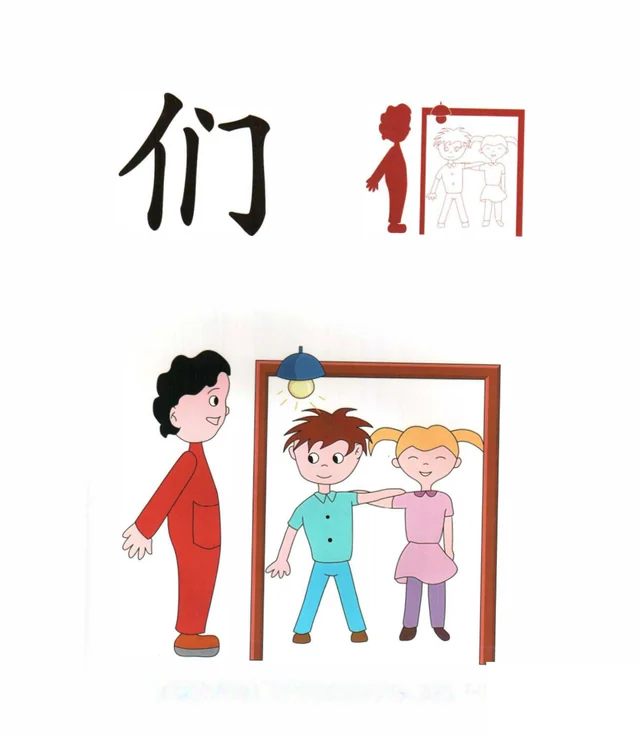
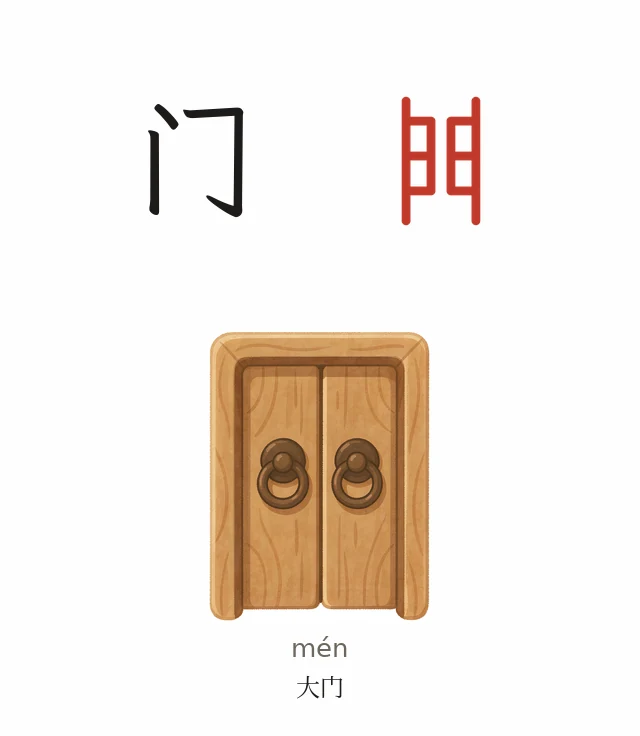
象形卡补齐：雨/鸟/鱼/田/小/门 按原卡版式合成，121 字全部为彩色卡
原因：这 6 个字在《象形识字卡大全》1400 张里没有整字（库内有雷雪露、
鸡鸭鹅、由申男、闪问闲等偏旁字，唯独缺这几个字本身），之前用甲骨文兜底，
和彩色卡风格割裂。

补卡方式（pipeline/cardfix.py）：
- 黑楷字：霞鹜文楷（OFL），按码点查 webfont 分片；固定字号，不按外框缩放
- 红古字：甲骨文 SVG 染 #C0392B，线宽 x1.65
- 彩色图：平台模型出单物体插画，四角色差去米底 + 过渡带羽化
- 版式取自原卡 shan.webp（640x736），逐项对齐到 0.01 精度

其他：
- data/pictographs.json：6 字改指 cards/*.webp，甲骨文兜底降为 0
- 大字卡里 svg 的米色圆底样式保留（作为兜底时的样式）
- picto_check 新增断言：这 6 个字必须是图片卡
- README：重写象形卡章节，修掉重复的「两本长故事」标题

回归：课程校验 / 报表一致 / UI 17 页 / 沙箱出声 / 象形卡 3 项 全绿

Changed region(s): [[0.1875, 0.4375, 0.7812, 0.9688], [0.5625, 0.125, 0.8438, 0.3125], [0.1875, 0.125, 0.4375, 0.3438]]

diff --git a/app/data.js b/app/data.js
@@ -1264,8 +1264,8 @@ window.SHIZI = {
       "wordAudio": "assets/audio/a78cd8c96408.mp3",
       "status": "teaching",
       "pictograph": {
-        "kind": "svg",
-        "src": "<svg xmlns=\"http://www.w3.org/2000/svg\" viewBox=\"0 0 100 100\" role=\"img\" aria-hidden=\"true\"><g transform=\"translate(21.59,8.00) scale(2.4706)\"><path d=\"M 12 4 L 12 30\" fill=\"none\" stroke=\"#3B352C\" stroke-width=\"1.133\" stroke-linecap=\"round\" stroke-linejoin=\"round\"/><path d=\"M 6 14 L 4 28\" fill=\"none\" stroke=\"#3B352C\" stroke-width=\"1.133\" stroke-linecap=\"round\" stroke-linejoin=\"round\"/><path d=\"M 18 12 L 19 28\" fill=\"none\" stroke=\"#3B352C\" stroke-width=\"1.133\" stroke-linecap=\"round\" stroke-linejoin=\"round\"/></g></svg>"
+        "kind": "img",
+        "src": "assets/cards/xiao.webp"
       }
     },
     "上": {
@@ -1421,8 +1421,8 @@ window.SHIZI = {
       "wordAudio": "assets/audio/ce67bb6fa740.mp3",
       "status": "planned",
       "pictograph": {
-        "kind": "svg",
-        "src": "<svg xmlns=\"http://www.w3.org/2000/svg\" viewBox=\"0 0 100 100\" role=\"img\" aria-hidden=\"true\"><g transform=\"translate(20.60,8.00) scale(2.8000)\"><path d=\"M 4 4 L 4 26\" fill=\"none\" stroke=\"#3B352C\" stroke-width=\"1.000\" stroke-linecap=\"round\" stroke-linejoin=\"round\"/><path d=\"M 4 4 L 17 5\" fill=\"none\" stroke=\"#3B352C\" stroke-width=\"1.000\" stroke-linecap=\"round\" stroke-linejoin=\"round\"/><path d=\"M 17 5 L 17 26\" fill=\"none\" stroke=\"#3B352C\" stroke-width=\"1.000\" stroke-linecap=\"round\" stroke-linejoin=\"round\"/><path d=\"M 4 26 L 17 26\" fill=\"none\" stroke=\"#3B352C\" stroke-width=\"1.000\" stroke-linecap=\"round\" stroke-linejoin=\"round\"/><path d=\"M 4 11 L 17 11\" fill=\"none\" stroke=\"#3B352C\" stroke-width=\"1.000\" stroke-linecap=\"round\" stroke-linejoin=\"round\"/><path d=\"M 4 18 L 17 19\" fill=\"none\" stroke=\"#3B352C\" stroke-width=\"1.000\" stroke-linecap=\"round\" stroke-linejoin=\"round\"/><path d=\"M 7 5 L 7 26\" fill=\"none\" stroke=\"#3B352C\" stroke-width=\"1.000\" stroke-linecap=\"round\" stroke-linejoin=\"round\"/><path d=\"M 12 5 L 12 26\" fill=\"none\" stroke=\"#3B352C\" stroke-width=\"1.000\" stroke-linecap=\"round\" stroke-linejoin=\"round\"/></g></svg>"
+        "kind": "img",
+        "src": "assets/cards/tian.webp"
       }
     },
     "里": {
@@ -2075,8 +2075,8 @@ window.SHIZI = {
       "wordAudio": "assets/audio/547f69624ece.mp3",
       "status": "planned",
       "pictograph": {
-        "kind": "svg",
-        "src": "<svg xmlns=\"http://www.w3.org/2000/svg\" viewBox=\"0 0 100 100\" role=\"img\" aria-hidden=\"true\"><g transform=\"translate(20.92,8.00) scale(2.1538)\"><path d=\"M 10 4 L 10 7\" fill=\"none\" stroke=\"#3B352C\" stroke-width=\"1.300\" stroke-linecap=\"round\" stroke-linejoin=\"round\"/><path d=\"M 10 6 L 16 12\" fill=\"none\" stroke=\"#3B352C\" stroke-width=\"1.300\" stroke-linecap=\"round\" stroke-linejoin=\"round\"/><path d=\"M 15 9 L 18 7 L 18 8 L 12 16\" fill=\"none\" stroke=\"#3B352C\" stroke-width=\"1.300\" stroke-linecap=\"round\" stroke-linejoin=\"round\"/><path d=\"M 11 14 L 11 19\" fill=\"none\" stroke=\"#3B352C\" stroke-width=\"1.300\" stroke-linecap=\"round\" stroke-linejoin=\"round\"/><path d=\"M 14 13 L 15 18 L 11 22 L 8 24 L 8 28 L 9 33 L 10 35\" fill=\"none\" stroke=\"#3B352C\" stroke-width=\"1.300\" stroke-linecap=\"round\" stroke-linejoin=\"round\"/><path d=\"M 15 18 L 19 24 L 18 27 L 17 31 L 20 35\" fill=\"none\" stroke=\"#3B352C\" stroke-width=\"1.300\" stroke-linecap=\"round\" stroke-linejoin=\"round\"/><path d=\"M 9 23 L 18 23\" fill=\"none\" stroke=\"#3B352C\" stroke-width=\"1.300\" stroke-linecap=\"round\" stroke-linejoin=\"round\"/><path d=\"M 9 27 L 19 27\" fill=\"none\" stroke=\"#3B352C\" stroke-width=\"1.300\" stroke-linecap=\"round\" stroke-linejoin=\"round\"/><path d=\"M 8 30 L 17 30\" fill=\"none\" stroke=\"#3B352C\" stroke-width=\"1.300\" stroke-linecap=\"round\" stroke-linejoin=\"round\"/><path d=\"M 14 22 L 13 31 L 11 35\" fill=\"none\" stroke=\"#3B352C\" stroke-width=\"1.300\" stroke-linecap=\"round\" stroke-linejoin=\"round\"/><path d=\"M 14 31 L 16 33 L 18 35\" fill=\"none\" stroke=\"#3B352C\" stroke-width=\"1.300\" stroke-linecap=\"round\" stroke-linejoin=\"round\"/><path d=\"M 8 25 L 5 27 L 4 33\" fill=\"none\" stroke=\"#3B352C\" stroke-width=\"1.300\" stroke-linecap=\"round\" stroke-linejoin=\"round\"/><path d=\"M 5 31 L 8 29\" fill=\"none\" stroke=\"#3B352C\" stroke-width=\"1.300\" stroke-linecap=\"round\" stroke-linejoin=\"round\"/><path d=\"M 19 25 L 22 27\" fill=\"none\" stroke=\"#3B352C\" stroke-width=\"1.300\" stroke-linecap=\"round\" stroke-linejoin=\"round\"/><path d=\"M 23 26 L 22 31\" fill=\"none\" stroke=\"#3B352C\" stroke-width=\"1.300\" stroke-linecap=\"round\" stroke-linejoin=\"round\"/><path d=\"M 17 29 L 22 31\" fill=\"none\" stroke=\"#3B352C\" stroke-width=\"1.300\" stroke-linecap=\"round\" stroke-linejoin=\"round\"/></g></svg>"
+        "kind": "img",
+        "src": "assets/cards/yu2.webp"
       }
     },
     "游": {
@@ -2148,8 +2148,8 @@ window.SHIZI = {
       "wordAudio": "assets/audio/107b8eb94827.mp3",
       "status": "planned",
       "pictograph": {
-        "kind": "svg",
-        "src": "<svg xmlns=\"http://www.w3.org/2000/svg\" viewBox=\"0 0 100 100\" role=\"img\" aria-hidden=\"true\"><g transform=\"translate(21.12,8.00) scale(2.6250)\"><path d=\"M 4 4 L 4 28\" fill=\"none\" stroke=\"#3B352C\" stroke-width=\"1.067\" stroke-linecap=\"round\" stroke-linejoin=\"round\"/><path d=\"M 4 28 L 4 28\" fill=\"none\" stroke=\"#3B352C\" stroke-width=\"1.067\" stroke-linecap=\"round\" stroke-linejoin=\"round\"/><path d=\"M 9 8 L 9 22\" fill=\"none\" stroke=\"#3B352C\" stroke-width=\"1.067\" stroke-linecap=\"round\" stroke-linejoin=\"round\"/><path d=\"M 13 8 L 13 22\" fill=\"none\" stroke=\"#3B352C\" stroke-width=\"1.067\" stroke-linecap=\"round\" stroke-linejoin=\"round\"/><path d=\"M 18 4 L 18 28\" fill=\"none\" stroke=\"#3B352C\" stroke-width=\"1.067\" stroke-linecap=\"round\" stroke-linejoin=\"round\"/><path d=\"M 4 8 L 9 8\" fill=\"none\" stroke=\"#3B352C\" stroke-width=\"1.067\" stroke-linecap=\"round\" stroke-linejoin=\"round\"/><path d=\"M 4 15 L 9 15\" fill=\"none\" stroke=\"#3B352C\" stroke-width=\"1.067\" stroke-linecap=\"round\" stroke-linejoin=\"round\"/><path d=\"M 4 22 L 9 22\" fill=\"none\" stroke=\"#3B352C\" stroke-width=\"1.067\" stroke-linecap=\"round\" stroke-linejoin=\"round\"/><path d=\"M 13 8 L 18 8\" fill=\"none\" stroke=\"#3B352C\" stroke-width=\"1.067\" stroke-linecap=\"round\" stroke-linejoin=\"round\"/><path d=\"M 13 15 L 18 15\" fill=\"none\" stroke=\"#3B352C\" stroke-width=\"1.067\" stroke-linecap=\"round\" stroke-linejoin=\"round\"/><path d=\"M 13 22 L 18 22\" fill=\"none\" stroke=\"#3B352C\" stroke-width=\"1.067\" stroke-linecap=\"round\" stroke-linejoin=\"round\"/></g></svg>"
+        "kind": "img",
+        "src": "assets/cards/men.webp"
       }
     },
     "跳": {
@@ -2530,8 +2530,8 @@ window.SHIZI = {
       "wordAudio": "assets/audio/731764cb06a9.mp3",
       "status": "planned",
       "pictograph": {
-        "kind": "svg",
-        "src": "<svg xmlns=\"http://www.w3.org/2000/svg\" viewBox=\"0 0 100 100\" role=\"img\" aria-hidden=\"true\"><g transform=\"translate(24.33,8.00) scale(2.3333)\"><path d=\"M 10 5 L 10 8 L 12 9 L 13 7 L 13 5 L 10 5\" fill=\"none\" stroke=\"#3B352C\" stroke-width=\"1.200\" stroke-linecap=\"round\" stroke-linejoin=\"round\"/><path d=\"M 10 4 L 6 5 L 5 8\" fill=\"none\" stroke=\"#3B352C\" stroke-width=\"1.200\" stroke-linecap=\"round\" stroke-linejoin=\"round\"/><path d=\"M 6 5 L 10 8\" fill=\"none\" stroke=\"#3B352C\" stroke-width=\"1.200\" stroke-linecap=\"round\" stroke-linejoin=\"round\"/><path d=\"M 13 7 L 13 14 L 18 20 L 18 25\" fill=\"none\" stroke=\"#3B352C\" stroke-width=\"1.200\" stroke-linecap=\"round\" stroke-linejoin=\"round\"/><path d=\"M 11 8 L 7 18 L 11 23 L 11 28\" fill=\"none\" stroke=\"#3B352C\" stroke-width=\"1.200\" stroke-linecap=\"round\" stroke-linejoin=\"round\"/><path d=\"M 10 13 L 11 15 L 10 17\" fill=\"none\" stroke=\"#3B352C\" stroke-width=\"1.200\" stroke-linecap=\"round\" stroke-linejoin=\"round\"/><path d=\"M 14 17 L 11 22\" fill=\"none\" stroke=\"#3B352C\" stroke-width=\"1.200\" stroke-linecap=\"round\" stroke-linejoin=\"round\"/><path d=\"M 13 19 L 14 26\" fill=\"none\" stroke=\"#3B352C\" stroke-width=\"1.200\" stroke-linecap=\"round\" stroke-linejoin=\"round\"/><path d=\"M 7 18 L 6 21 L 9 26\" fill=\"none\" stroke=\"#3B352C\" stroke-width=\"1.200\" stroke-linecap=\"round\" stroke-linejoin=\"round\"/><path d=\"M 7 23 L 4 27 L 5 32\" fill=\"none\" stroke=\"#3B352C\" stroke-width=\"1.200\" stroke-linecap=\"round\" stroke-linejoin=\"round\"/><path d=\"M 6 26 L 7 28\" fill=\"none\" stroke=\"#3B352C\" stroke-width=\"1.200\" stroke-linecap=\"round\" stroke-linejoin=\"round\"/></g></svg>"
+        "kind": "img",
+        "src": "assets/cards/niao.webp"
       }
     },
     "夜": {
@@ -2559,8 +2559,8 @@ window.SHIZI = {
       "wordAudio": "assets/audio/6dfe7066f782.mp3",
       "status": "planned",
       "pictograph": {
-        "kind": "svg",
-        "src": "<svg xmlns=\"http://www.w3.org/2000/svg\" viewBox=\"0 0 100 100\" role=\"img\" aria-hidden=\"true\"><g transform=\"translate(24.55,8.00) scale(2.5455)\"><path d=\"M 7 4 L 14 4\" fill=\"none\" stroke=\"#3B352C\" stroke-width=\"1.100\" stroke-linecap=\"round\" stroke-linejoin=\"round\"/><path d=\"M 5 15 L 7 6 L 14 6 L 16 14\" fill=\"none\" stroke=\"#3B352C\" stroke-width=\"1.100\" stroke-linecap=\"round\" stroke-linejoin=\"round\"/><path d=\"M 11 6 L 11 18\" fill=\"none\" stroke=\"#3B352C\" stroke-width=\"1.100\" stroke-linecap=\"round\" stroke-linejoin=\"round\"/><path d=\"M 8 14 L 4 25\" fill=\"none\" stroke=\"#3B352C\" stroke-width=\"1.100\" stroke-linecap=\"round\" stroke-linejoin=\"round\"/><path d=\"M 13 13 L 16 24\" fill=\"none\" stroke=\"#3B352C\" stroke-width=\"1.100\" stroke-linecap=\"round\" stroke-linejoin=\"round\"/><path d=\"M 11 22 L 11 29\" fill=\"none\" stroke=\"#3B352C\" stroke-width=\"1.100\" stroke-linecap=\"round\" stroke-linejoin=\"round\"/></g></svg>"
+        "kind": "img",
+        "src": "assets/cards/yu.webp"
       }
     },
     "声": {

diff --git a/app/app.css b/app/app.css
@@ -298,7 +298,12 @@ table.stat td{padding:6px 3px;border-bottom:1px solid #F3EAD8;text-align:right;c
   display:flex;align-items:center;justify-content:center;
   animation:picIn .28s cubic-bezier(.2,.8,.2,1) both;
 }
-.b-pic svg{display:block;width:min(42vw,210px);height:min(42vw,210px)}
+.b-pic svg{
+  display:block;width:min(42vw,210px);height:min(42vw,210px);
+  /* 甲骨文兜底：加米色圆底，视觉上靠近卡片，避免黑白线条突兀 */
+  background:#FBF6EC;border-radius:16px;padding:9px;box-sizing:border-box;
+  box-shadow:inset 0 0 0 1px rgba(160,140,110,.16);
+}
 .b-pic img{display:block;width:min(48vw,236px);height:auto;border-radius:14px}
 @keyframes picIn{from{opacity:0;transform:scale(.94)}to{opacity:1;transform:none}}
 .b-hint{font-size:12px;color:#B0A48E;margin-top:12px;letter-spacing:.04em}

diff --git a/pipeline/cardfix.py b/pipeline/cardfix.py
@@ -1,0 +1,205 @@
+"""给识字卡库里缺的字补卡：黑楷字 + 红古文字 + 彩色象形 + 拼音配词。
+
+背景：用户提供的《象形识字卡大全》PDF 共 1400 张，覆盖 115 个字表字，
+但雨、鸟、鱼、田、小、门这 6 个整字不在其中（库里有雷/雪、鸡/鸭、男/界这类
+带相应偏旁的字，唯独没有这几个字本身）。用甲骨文兜底会和彩色卡风格割裂，
+所以按原卡的版式补画。
+
+用法：
+    python3 pipeline/cardfix.py            # 合成
+    python3 pipeline/cardfix.py --preview  # 只出一张总览图
+
+版式取自原卡（app/assets/cards/shan.webp，640x736）：
+    黑楷字   x 0.21-0.41  y 0.13-0.30
+    红古字   x 0.57-0.81  y 0.15-0.31
+    彩色图   中心 (0.50, 0.62)  最大 310px
+    拼音/词  居中 y 0.86 / 0.91
+"""
+from __future__ import annotations
+
+import sys
+from pathlib import Path
+
+import numpy as np
+from PIL import Image, ImageDraw, ImageFont
+
+ROOT = Path(__file__).resolve().parent.parent
+CARDS = ROOT / "app" / "assets" / "cards"
+KAI_DIR = Path("/tmp/wenkai/package/files")
+SLUG_KAI = "lxgwwenkai-regular-subset-*.woff2"
+
+
+def kai_for(char: str) -> Path:
+    """霞鹜文楷是 webfont 分片，每个分片只含一部分字，按码点找含该字的分片。"""
+    from fontTools.ttLib import TTFont
+    cp = ord(char)
+    cache = kai_for.cache
+    if cp in cache:
+        return cache[cp]
+    for f in sorted(KAI_DIR.glob(SLUG_KAI)):
+        try:
+            t = TTFont(f, lazy=True)
+            cmap = t.getBestCmap()
+            t.close()
+        except Exception:
+            continue
+        if cp in cmap:
+            cache[cp] = f
+            return f
+    raise SystemExit(f"楷体分片里找不到「{char}」（需要先下载 lxgw-wenkai-webfont）")
+
+
+kai_for.cache = {}
+LATIN = "/usr/share/fonts/truetype/dejavu/DejaVuSans.ttf"
+CJK = "/usr/share/fonts/opentype/noto/NotoSerifCJK-Regular.ttc"
+
+W, H = 640, 736
+PAPER = (254, 254, 254)
+INK = (30, 28, 26)
+GREY = (110, 102, 92)
+
+# 字 → (拼音, 配词, 彩图文件名关键词)
+ITEMS = {
+    "小": ("xiǎo", "小兔", "00-25-35"),
+    "雨": ("yǔ", "下雨", "00-25-57"),
+    "门": ("mén", "大门", "00-27-13"),
+    "田": ("tián", "田地", "00-27-26"),
+    "鸟": ("niǎo", "小鸟", "00-28-37"),
+    "鱼": ("yú", "小鱼", "00-28-54"),
+}
+
+SLUG = {"小": "xiao", "雨": "yu", "门": "men", "田": "tian", "鸟": "niao", "鱼": "yu2"}
+
+
+def trim(im: Image.Image, pad: int = 0) -> Image.Image:
+    """按不透明/非白像素裁掉空白。"""
+    a = np.asarray(im.convert("RGBA"))
+    if im.mode == "RGBA":
+        mask = a[:, :, 3] > 12
+    else:
+        rgb = a[:, :, :3].astype(int)
+        mask = rgb.min(axis=2) < 235
+    ys, xs = np.where(mask)
+    if len(xs) == 0:
+        return im
+    x0, x1 = max(0, xs.min()-pad), min(im.width, xs.max()+1+pad)
+    y0, y1 = max(0, ys.min()-pad), min(im.height, ys.max()+1+pad)
+    return im.crop((x0, y0, x1, y1))
+
+
+def fit_into(im: Image.Image, box_w: int, box_h: int) -> Image.Image:
+    """等比缩放，塞进 box，保持比例。"""
+    s = min(box_w / im.width, box_h / im.height)
+    return im.resize((max(1, int(im.width * s)), max(1, int(im.height * s))), Image.LANCZOS)
+
+
+def glyph(char: str, size: int = 190, fs: int = 130) -> Image.Image:
+    """黑楷字：固定字号，只在画布内居中。
+
+    原卡每个字的字号一致，笔画少的字（小）自然就小，
+    按外框缩放会把「小」拉得和「田」一样大，反而失真。
+    """
+    font = ImageFont.truetype(str(kai_for(char)), fs)
+    im = Image.new("RGBA", (size, size), (0, 0, 0, 0))
+    d = ImageDraw.Draw(im)
+    bb = d.textbbox((0, 0), char, font=font)
+    d.text(((size - (bb[2]-bb[0]))/2 - bb[0], (size - (bb[3]-bb[1]))/2 - bb[1]),
+           char, font=font, fill=INK + (255,))
+    return im
+
+
+def find_color(char: str) -> Path:
+    key = ITEMS[char][2]
+    hits = [p for p in (ROOT / "art" / "cards-fix").glob("*.png") if key in p.name]
+    if not hits:
+        raise SystemExit(f"找不到「{char}」的彩图（关键词 {key}）")
+    return hits[0]
+
+
+# AI 图底色是 #FBF6EC，卡片是纯白；直接贴会看到一块方形色差。
+# 按通道白平衡把底色拉到纯白，物体颜色只轻微偏移。
+PAPER_AI = (251, 246, 236)
+
+
+def whiten(im: Image.Image) -> Image.Image:
+    """把 AI 图的米色底换成纯白。
+
+    四角采样当底色（不同图的底色深浅不一），按色差替换，边缘做一次羽化，
+    否则贴在白卡上会看到一个方形轮廓。
+    """
+    a = np.asarray(im).astype(np.float32)
+    corners = np.stack([a[2, 2], a[2, -3], a[-3, 2], a[-3, -3]])
+    bg = np.median(corners, axis=0)
+    dist = np.abs(a - bg).max(axis=2)
+    a[dist < 14] = 255
+    # 过渡带：把 14-26 的色差按比例推向白色
+    band = (dist >= 14) & (dist < 26)
+    k = ((dist - 14) / 12.0)[..., None]
+    a[band] = 255 - (255 - a[band]) * k[band]
+    return Image.fromarray(np.clip(a, 0, 255).astype(np.uint8))
+
+
+def color_pic(char: str) -> Image.Image:
+    im = Image.open(find_color(char)).convert("RGB")
+    # 裁掉四周 6%（含右下角水印）
+    bx = int(im.width * 0.06)
+    im = im.crop((bx, bx, im.width - bx, im.height - bx))
+    im = whiten(im)
+    return trim(im, pad=4)
+
+
+def compose(char: str) -> Image.Image:
+    pinyin, word, _ = ITEMS[char]
+    canvas = Image.new("RGB", (W, H), PAPER)
+
+    # 黑楷字：左上
+    g = glyph(char)
+    canvas.paste(g, (102, 66), g)
+
+    # 红古字：右上，按统一画布缩放（字形本身已在 100x100 内归一化）
+    red = Image.open(f"/tmp/red/{SLUG[char]}.png").convert("RGBA")
+    red = red.resize((190, 190), Image.LANCZOS)
+    canvas.paste(red, (346, 66), red)
+
+    # 彩色象形：中下
+    pic = fit_into(color_pic(char), 292, 292)
+    canvas.paste(pic, ((W - pic.width)//2, 330 + (292 - pic.height)//2))
+
+    # 拼音 + 配词
+    d = ImageDraw.Draw(canvas)
+    try:
+        # 外层大字卡也会显示拼音和配词，卡内这份要小一点，避免重复得太抢眼
+        f1 = ImageFont.truetype(LATIN, 26)
+        f2 = ImageFont.truetype(CJK, 24) if Path(CJK).exists() else f1
+    except Exception:
+        f1 = f2 = ImageFont.load_default()
+    tw = d.textlength(pinyin, font=f1)
+    d.text(((W - tw)/2, 632), pinyin, font=f1, fill=GREY)
+    tw = d.textlength(word, font=f2)
+    d.text(((W - tw)/2, 668), word, font=f2, fill=INK)
+    return canvas
+
+
+def main() -> None:
+    CARDS.mkdir(parents=True, exist_ok=True)
+    made = []
+    for char in ITEMS:
+        im = compose(char)
+        p = CARDS / f"{SLUG[char]}.webp"
+        im.save(p, "WEBP", quality=88, method=6)
+        made.append((char, p))
+        print(f"  ✓ {char} → {p.relative_to(ROOT)} ({p.stat().st_size//1024} KB)")
+
+    if "--preview" in sys.argv:
+        cols = 3
+        rows = (len(made) + cols - 1) // cols
+        sheet = Image.new("RGB", (cols*W, rows*H), "#DDD")
+        for i, (_, p) in enumerate(made):
+            sheet.paste(Image.open(p).convert("RGB"), ((i % cols)*W, (i // cols)*H))
+        out = ROOT / "art" / "cards-fix" / "preview.png"
+        sheet.resize((cols*320, rows*368), Image.LANCZOS).save(out)
+        print("总览:", out.relative_to(ROOT))
+
+
+if __name__ == "__main__":
+    main()

diff --git a/tests/picto_check.py b/tests/picto_check.py
@@ -74,6 +74,20 @@ def main() -> int:
         assert not pg.locator("#bigPic").is_visible(), "无图时不该显示空图片"
         print("✓ 无象形图的字：不显示提示，点击也不切换")
 
+        # ---- 补齐的 6 个字必须都是卡片图，不能再退回甲骨文 ----
+        kinds = pg.evaluate("""() => {
+          const out = {};
+          for (const ch of ['小','雨','门','田','鸟','鱼']) {
+            const p = SHIZI.chars[ch] && SHIZI.chars[ch].pictograph;
+            if (p) out[ch] = p.kind;
+          }
+          return out;
+        }""")
+        assert len(kinds) == 6, f"这 6 个字应都有象形图，实际 {kinds}"
+        bad = [ch for ch, k in kinds.items() if k != "img"]
+        assert not bad, f"这些字仍是甲骨文兜底：{bad}"
+        print(f"✓ 补卡：{' '.join(kinds)} 均为图片卡")
+
         assert not errors, f"页面报错：{errors}"
         b.close()
         return 0

diff --git a/README.md b/README.md
@@ -53,38 +53,60 @@ python3 tests/bundle_check.py   # 单文件在沙箱 srcdoc 里也能出声
 | 单文件 | `dist/shizi-demo.html` 8.3 MB，CSS/JS/插画/音频全部内联 |
 | 测试 | 课程校验、约束拒绝路径、前后端口径一致、10 项 UI 回归 |
 
-### 象形卡（121 个字）
+### 象形卡（121 个字，全部为彩色卡）
 
-长按一个字出大字卡，**再点一下卡片**，字会变成象形图。
+长按一个字出大字卡，**再点一下卡片**，字会变成象形卡。
 
-**图从哪来**：用户提供的《象形识字卡大全》PDF（350 页，每页 4 张，共 1400 张）。
-每条卡片本身就是「黑楷书 + 红古文字 + 彩色象形插画」，截图后可直接用。
+**图从哪来**：用户提供的《象形识字卡大全》PDF（350 页 × 4 张 = 1400 张）。
+每条卡片本身就是「黑楷书 + 红古文字 + 彩色象形插画」，裁下来即可用。
 
 | 项 | 说明 |
 |---|---|
-| 卡片覆盖 | 字表 144 字里命中 **115** 个（另有 6 个用甲骨文兜底） |
-| 补字 | 雨、鸟、鱼、田、小、门 用开源甲骨文兜底，风格偏线条 |
+| 覆盖 | 字表 144 字里 **121 个**有卡片（0 个甲骨文兜底） |
+| 卡片来源 | 115 张直接裁自 PDF，6 张按原卡版式补画（见下） |
 | 缺 | 23 个：鲤、天、告、能、浪、尽、身、纵、很、刚、锄、头、桩、合、又、傻、晓、啼、风、日、一、月、眠 |
-| 体积 | 115 张 640px WebP，合计 1.9 MB；单文件 Demo 因此到 10.8 MB |
+| 体积 | 121 张 640×736 WebP，合计约 2.0 MB |
 
-**怎么做的**：
+**裁卡流程**：
 
 1. `pixmaps` 300 DPI 渲染每页 → 按 2×2 切卡 → 去掉底部水印与编号
 2. 裁出每张卡左上角的黑字，拼成 8×8 索引图，**人工逐张读字**，建立 `字 → (页, 位置)`
 3. 按索引回原图裁卡片，640px WebP
-4. **逐张人工核对 120 张卡片与字的对应**，修正 3 处形近字错位（子/孔、明/丽、白/伯），删除 4 个找不到正确卡片的字（日/一/月/眠）
+4. 逐张核对 120 张与字的对应，修正 8 处形近字错位（子/孔、明/丽、白/伯、门/们、日/阳、一/望、月/嗓、眠/催）
 
 > 最初试过 tesseract，单字识别完全不可用（把「米」认成「洗」）；
 > 改成人工读索引图，1400 个字分 22 张图读完，再用字表校对。
 > `data/card-index.json` 保留完整索引，以后加字直接查表裁图，不用重读。
 
-**为什么有缺字**：这套卡是按主题编的幼儿识字卡，与我们的课程用字不完全重合
-（比如「鲤」「锄」「桩」这类字不在其中）。缺的字目前不显示切图入口。
+**补画 6 张**：雨、鸟、鱼、田、小、门 这套卡里没有整字——
+库内有雷/雪/露（雨字头）、鸡/鸭/鹅（鸟旁）、由/申/男（田框）、闪/问/闲（门框），
+但就是没有这几个字本身。用甲骨文兜底会和彩色卡风格割裂（用户反馈"还是甲骨文"），
+所以按原卡版式补画：
 
-> 早期的甲骨文方案保留在 `app/assets/picto/`，作为没有卡片时的兜底，
-> 由 `pipeline/oracle.py` 从 CC0 字形库取。
+```bash
+python3 pipeline/cardfix.py            # 合成 6 张
+python3 pipeline/cardfix.py --preview  # 附一张总览图
+```
 
-### 两本长故事### 两本长故事### 两本长故事
+版式取自原卡（`app/assets/cards/shan.webp`，640×736）：
+
+```text
+黑楷字  x 0.21-0.41  y 0.13-0.30   ← 霞鹜文楷（OFL）按码点查 webfont 分片
+红古字  x 0.57-0.81  y 0.15-0.31   ← 甲骨文 SVG 染成 #C0392B，线宽 ×1.65
+彩色图  中心 (0.50, 0.62) 292px    ← 平台模型出图，四角采样去米色底
+拼音/词 居中 y 0.86 / 0.91         ← 字号比外层大字卡小，避免重复抢眼
+```
+
+> 彩图是平台模型生成的单物体插画，底色 `#FBF6EC` 与卡片纯白不同，
+> 按四角色差替换 + 过渡带羽化，否则贴在白卡上会出现方形轮廓。
+
+**为什么有缺字**：这套卡是按主题编的幼儿识字卡，与课程用字不完全重合
+（「鲤」「锄」「桩」「晓」「啼」都不在其中）。缺的字目前不显示切图入口。
+
+> 早期方案 `app/assets/picto/*.svg` 是 CC0 甲骨文（`pipeline/oracle.py`），
+> 现在 `data/pictographs.json` 已全部指向彩色卡，甲骨文只作历史备份保留。
+
+### 两本长故事
 
 | 课 | 页数 | 字数 | 新字 | 预备课 | 插画 |
 |---|---|---|---|---|---|
